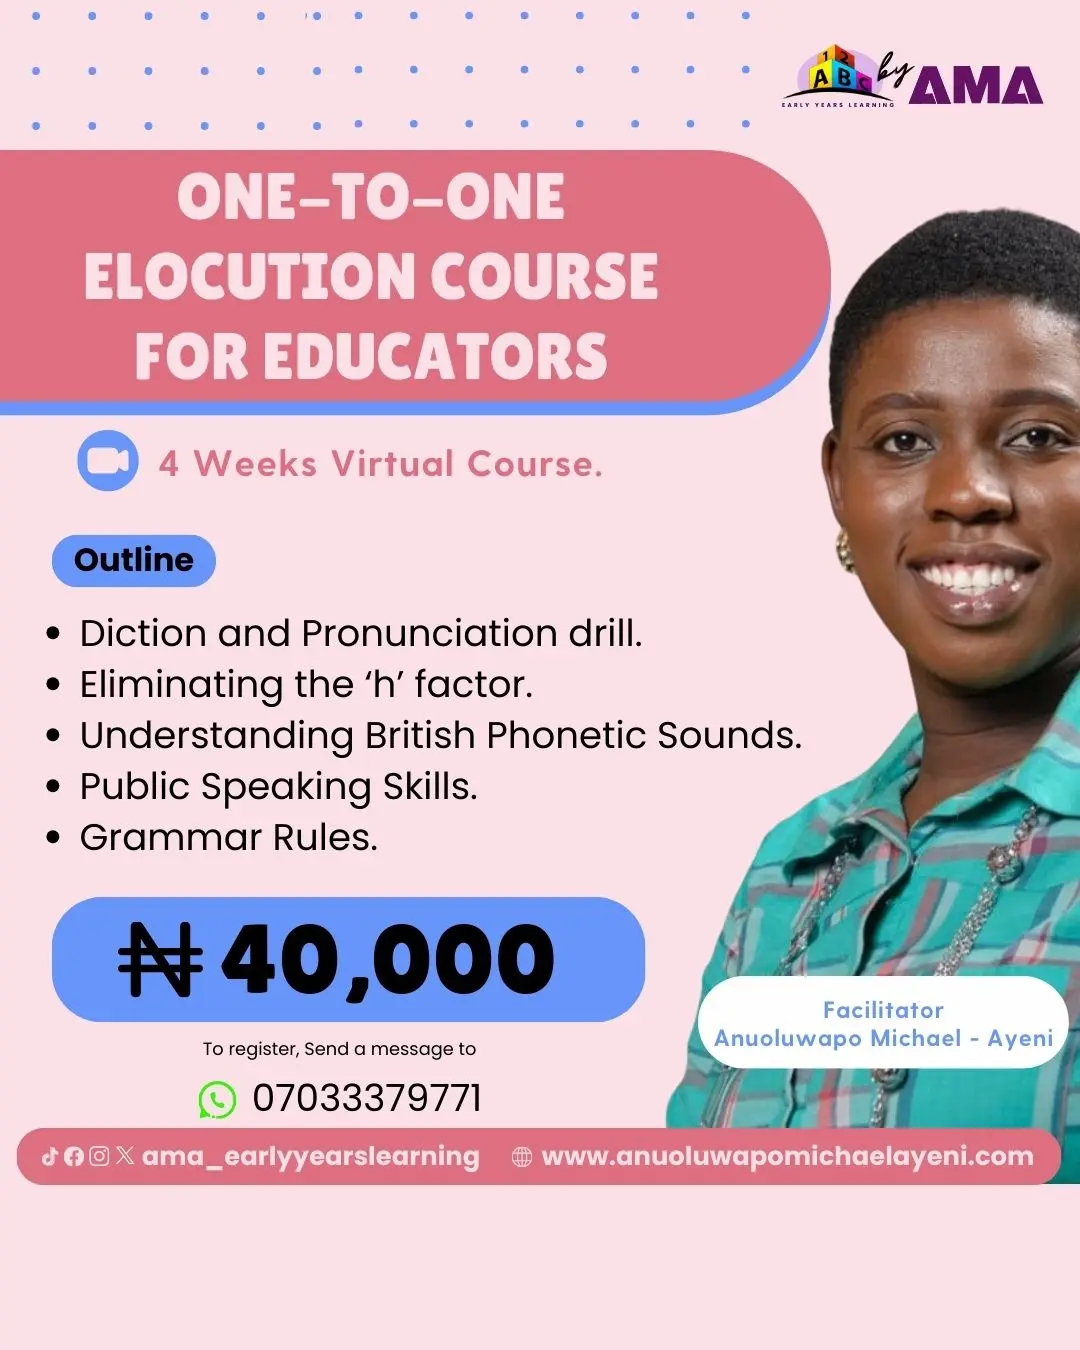
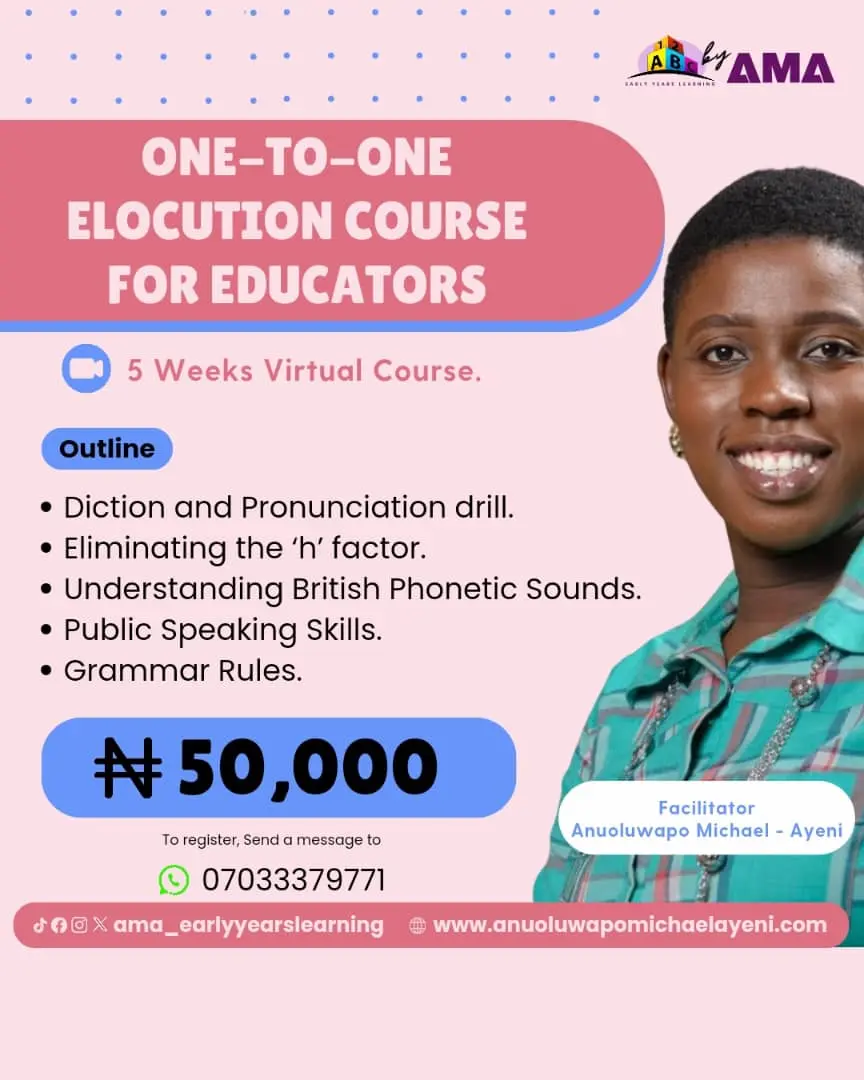
anu wahala again

diff --git a/src/app/(others)/early-years/_components/data.ts b/src/app/(others)/early-years/_components/data.ts
@@ -1,7 +1,7 @@
 import {
   Conversations,
   PrivateTutor,
-  PhonicsAndReading,
+  PhonicsAndDiction,
   PhonicsIntervention,
   ElocutionCourse,
   ReadingIntervention,
@@ -13,7 +13,7 @@ export const data = [
     title: "One-to-One Elocution Course for Educators",
     img: ElocutionCourse,
     info: [
-      "To improve your speaking skills from Fluency to Eloquence, sign up for our one-to-one elocution course for a 4 weeks practical class. You will learn to properly produce the British English sounds and enunciate words correctly. A certificate will be awarded after the completion of the course.",
+      "To improve your speaking skills from Fluency to Eloquence, sign up for our one-to-one elocution course for a 5 weeks practical class. You will learn to properly produce the British English sounds and enunciate words correctly. A certificate will be awarded after the completion of the course.",
     ],
     buttonText: "Register",
     buttonLink:
@@ -31,10 +31,10 @@ export const data = [
     tag: "YouTube",
   },
   {
-    title: "Phonics and Reading Club",
-    img: PhonicsAndReading,
+    title: "Phonics and Diction Club",
+    img: PhonicsAndDiction,
     info: [
-      "Register your child/(ren) for our Phonics and Reading Club, holding every Saturday from 5pm - 6pm (WAT). Children will be taken through the rudiments of reading fluency, correct enunciation of words, creative writing using a variety of picture prompts to create their own detailed stories and instructional texts etc.",
+      "Register your child/(ren) for our Phonics and Diction Club, holding every Saturday from 11am - 12pm (WAT). Children will be taken through the rudiments of reading fluency, correct enunciation of words, creative writing using a variety of picture prompts to create their own detailed stories and instructional texts etc.",
     ],
     buttonText: "Register",
     buttonLink: whatsappLink,

diff --git a/src/assets/index.ts b/src/assets/index.ts
@@ -41,7 +41,7 @@ import EarlyYearsLogo from "@/assets/images/early-years-logo.webp";
 import Vision from "@/assets/images/vision.webp";
 import Conversations from "@/assets/images/conversations.webp";
 import PrivateTutor from "@/assets/images/private_tutor.webp";
-import PhonicsAndReading from "@/assets/images/phonics_and_reading.webp";
+import PhonicsAndDiction from "@/assets/images/phonics_and_diction.webp";
 import PhonicsIntervention from "@/assets/images/phonics_intervention.webp";
 import ElocutionCourse from "@/assets/images/elocution_course.webp";
 import ReadingIntervention from "@/assets/images/reading_intervention.webp";
@@ -59,7 +59,7 @@ export {
   Logo_White,
   BG_Colors,
   PrivateTutor,
-  PhonicsAndReading,
+  PhonicsAndDiction,
   PhonicsIntervention,
   ReadingIntervention,
   ElocutionCourse,
